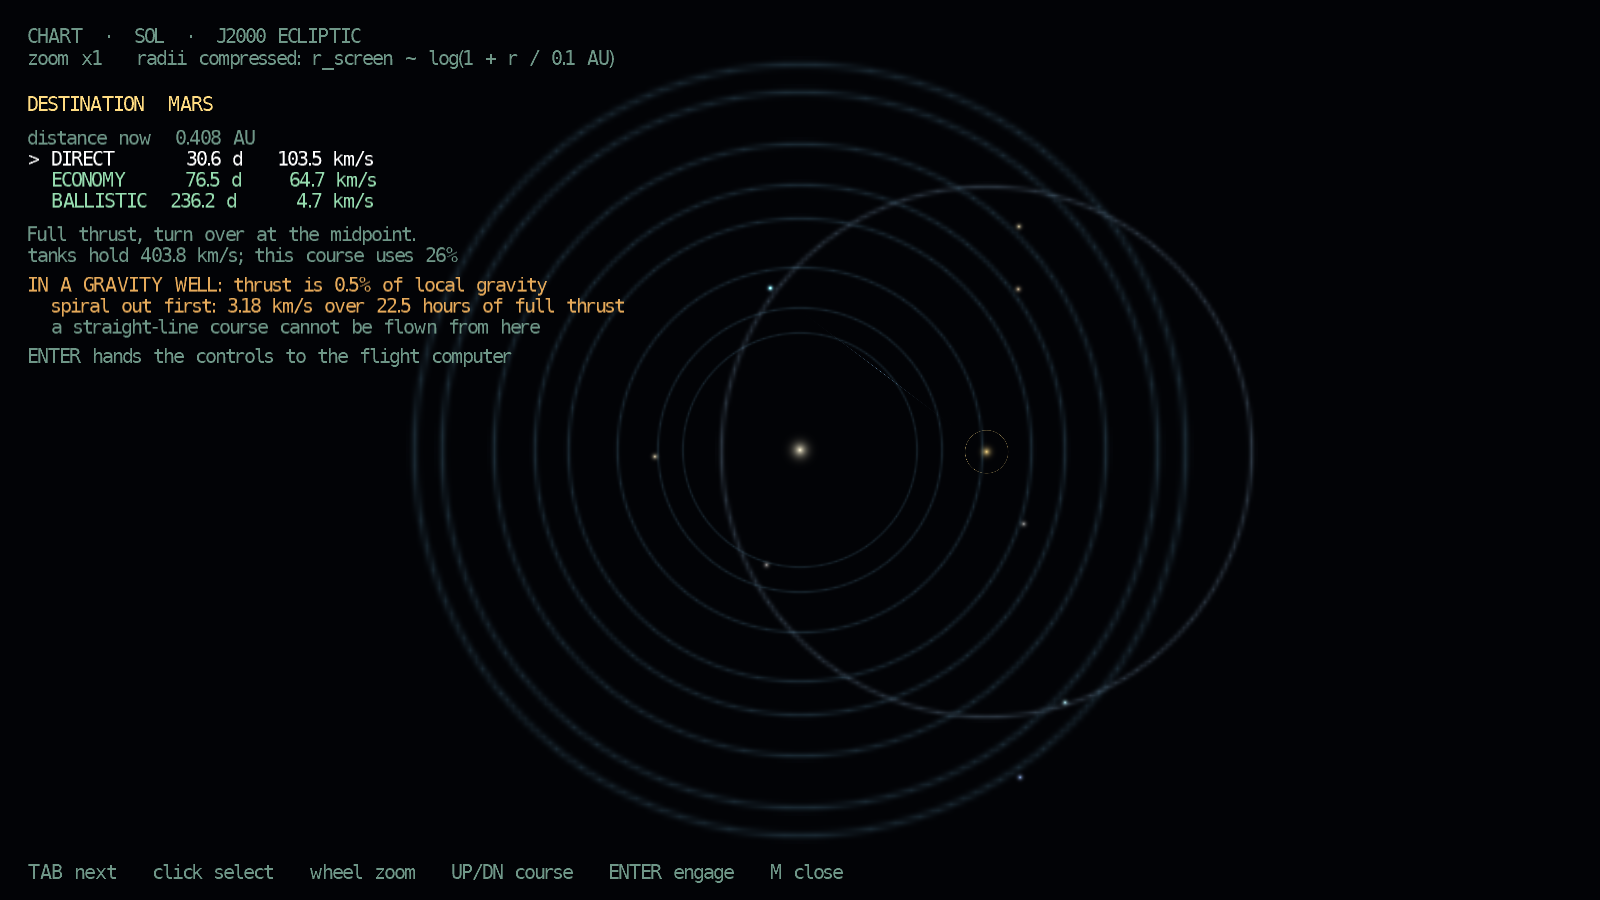
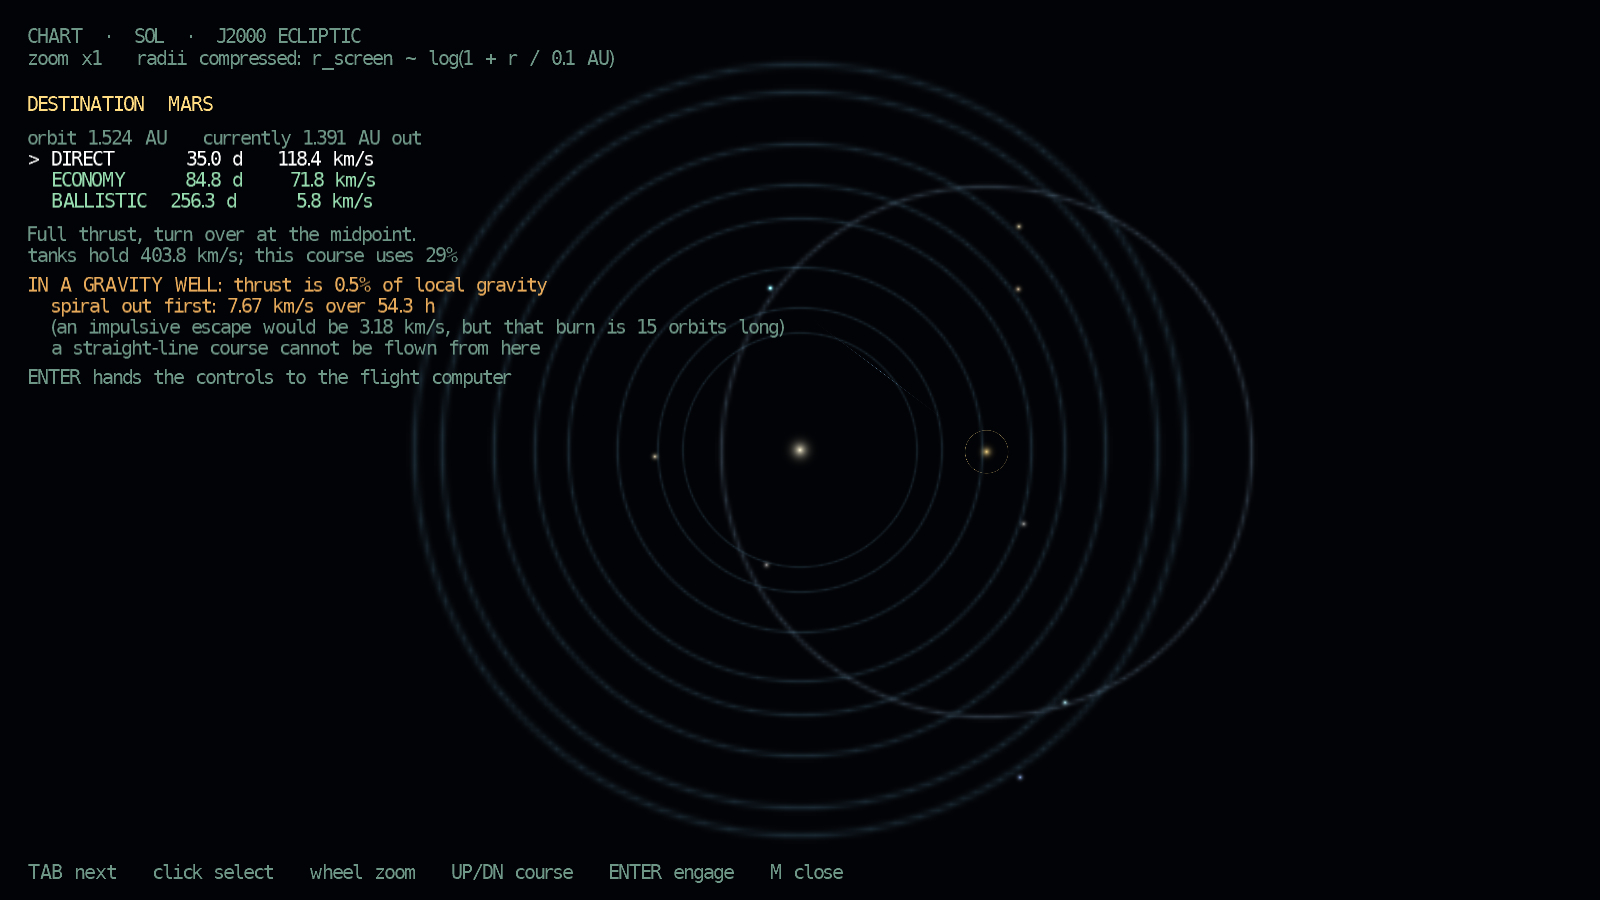
The escape costs two and a half times more than I said: the Oberth effect
"Can we have a limited time burn that gives the necessary escape speed?" No --
and working out why corrected a number I had wrong in the last commit.

There are two prices for the same escape and they differ by a factor of 2.41:

  IMPULSIVE, all at once   3.18 km/s = (sqrt2 - 1) * v_circ
  TANGENTIAL SPIRAL        7.67 km/s = v_circ

An instantaneous prograde burn adds v*dv of specific energy per metre a second,
and it does it at the highest speed the ship will ever have; solving
v^2 + 2*v_c* dv - v_c^2 = 0 gives 0.414 v_c. A spiral spends its metres a second
at every radius from here to infinity, where the speed is lower, and the energy
accounting gives exactly v_c.

THE CHEAP ONE CANNOT BE BOUGHT WITH A WEAK DRIVE, which is the answer to the
question. The impulsive burn takes 22.5 hours at four milligee -- FOURTEEN AND A
HALF ORBITS -- so there is no point in the orbit at which to deliver it. Thrust
along the velocity is the spiral, and the spiral pays the spiral price. The burn
duration against the orbital period is what decides it, not the destination:
a 0.4 g drive does the same escape in 0.15 orbits and pays 3.18.

So the previous commit's "spiral out first: 3.18 km/s over 22.5 hours" was wrong
twice: it quoted the impulsive delta-v and called it a spiral, and paired it with
a time that belongs to neither. The chart now shows both prices and says which
one applies.

A finite-thrust escape lies between the limits. This reports the limits rather
[…]

Changed region(s): [[0.0, 0.3111, 0.5, 0.4356], [0.0312, 0.1244, 0.25, 0.2489]]

diff --git a/src/SolSystem.Core/Orbits/FlightPlan.cs b/src/SolSystem.Core/Orbits/FlightPlan.cs
@@ -214,38 +214,74 @@ internal static class FlightPlan
     }
 
     /// <summary>
-    /// What it costs to climb out of a planet's gravity well before any course can begin.
+    /// What it costs to climb out of a gravity well, and how the cost depends on the drive.
+    /// </summary>
+    /// <param name="ImpulsiveDeltaV">The price if the burn could be instantaneous.</param>
+    /// <param name="SpiralDeltaV">The price for a slow tangential spiral.</param>
+    /// <param name="Orbits">How many orbits the impulsive burn would take at this thrust.</param>
+    /// <param name="SpiralSeconds">How long the spiral takes.</param>
+    internal readonly record struct EscapeCost(
+        double ImpulsiveDeltaV,
+        double SpiralDeltaV,
+        double Orbits,
+        double SpiralSeconds)
+    {
+        /// <summary>
+        /// Whether the drive is slow enough that the spiral price is the one it pays.
+        /// </summary>
+        /// <remarks>
+        /// A burn has to be short compared with an orbit to earn the impulsive price, and this asks
+        /// whether it is. One orbit is the line, and in practice a drive is well inside one regime or
+        /// the other — the interesting range is a factor of a hundred either side, not a factor of
+        /// two.
+        /// </remarks>
+        internal bool IsSpiral => Orbits > 1.0;
+    }
+
+    /// <summary>
+    /// What it costs to reach escape speed, which is NOT one number.
     /// </summary>
     /// <remarks>
     /// <para>
-    /// <b>A ship in orbit cannot point at Mars and leave.</b> At four milligee the drive's thrust is
-    /// <b>0.45 per cent</b> of the Earth's gravity at low orbit, so a vertical burn does not lift it —
-    /// it falls. What a low-thrust ship does instead is thrust along its direction of travel and
-    /// spiral outward, raising its orbit until it reaches escape speed, and that is a different
-    /// manoeuvre from anything in this planner.
+    /// <b>The same escape costs 3.18 km/s or 7.67 km/s depending on how fast the drive can deliver
+    /// it, and this is the Oberth effect.</b> An instantaneous prograde burn at low orbit adds
+    /// <c>v·dv</c> of specific energy per metre a second, and it does it at the highest speed the ship
+    /// will ever have. Solving <c>v² + 2·v_c·Δv − v_c² = 0</c> gives <c>Δv = (√2 − 1)·v_c = 3.18</c>.
+    /// A slow spiral spends its metres a second at every radius from here to infinity, where the
+    /// speed is lower, and the energy accounting gives exactly <c>Δv = v_c = 7.67</c>.
     /// </para>
     /// <para>
-    /// The cost of the spiral is <c>(sqrt(2) − 1)·v_circular</c>, which at the station's altitude is
-    /// <b>3.18 km/s</b> — a twentieth of the tanks — and it takes <b>22.5 hours</b> of continuous
-    /// full thrust, because a low-thrust burn is slow by definition.
+    /// <b>The ratio is 2.41 and there is no way to buy the cheap one with a weak drive.</b> The
+    /// impulsive burn would take 22.5 hours at four milligee — <b>fourteen and a half orbits</b> — so
+    /// there is no point in the orbit at which to deliver it. Thrusting prograde is the spiral, and
+    /// the spiral pays the spiral price.
     /// </para>
     /// <para>
-    /// This is returnable so that a chart can say so rather than offering a course the ship cannot
-    /// fly. The first version of the chart offered Mars at 63 days and the ship would have fallen
-    /// out of the sky.
+    /// A finite-thrust escape lies between the two limits. This reports both and says which regime
+    /// the drive is in, rather than interpolating: the honest middle needs a low-thrust trajectory
+    /// optimiser and this is not one.
     /// </para>
     /// </remarks>
-    internal static (double DeltaV, double Seconds) Escape(
-        double centralGmKm, double radiusKm, double acceleration)
+    internal static EscapeCost Escape(double centralGmKm, double radiusKm, double acceleration)
     {
         if (radiusKm <= 0.0 || acceleration <= 0.0)
         {
-            return (double.PositiveInfinity, double.PositiveInfinity);
+            return new EscapeCost(double.PositiveInfinity, double.PositiveInfinity, 0.0,
+                double.PositiveInfinity);
         }
 
-        double circular = Math.Sqrt(centralGmKm / radiusKm);            // km/s
-        double deltaV = (Math.Sqrt(2.0) - 1.0) * circular * 1000.0;     // m/s
-        return (deltaV, deltaV / acceleration);
+        double circular = Math.Sqrt(centralGmKm / radiusKm) * 1000.0;      // m/s
+        double period = 2.0 * Math.PI * Math.Sqrt(
+            (radiusKm * radiusKm * radiusKm) / centralGmKm);               // s
+
+        double impulsive = (Math.Sqrt(2.0) - 1.0) * circular;
+        double spiral = circular;
+
+        return new EscapeCost(
+            impulsive,
+            spiral,
+            impulsive / acceleration / period,
+            spiral / acceleration);
     }
 
     /// <summary>

diff --git a/tests/SolSystem.Core.Tests/FlightPlanTests.cs b/tests/SolSystem.Core.Tests/FlightPlanTests.cs
@@ -201,4 +201,66 @@ public class FlightPlanTests
         Assert.True(Find(toVenus, "BALLISTIC").DeltaV < Find(toMars, "BALLISTIC").DeltaV);
         Assert.True(Find(toVenus, "DIRECT").Seconds < Find(toMars, "DIRECT").Seconds);
     }
+
+    [Fact]
+    public void TheEscapePrice_DependsOnHowFastTheDriveCanPayIt()
+    {
+        // The Oberth effect, and the reason a low-thrust ship cannot buy the cheap escape.
+        //
+        // At the station the Earth's gravity is 8.68 m/s2 and the drive makes 0.0393, so the ship
+        // cannot climb out by pointing up. It has to thrust along its direction of travel and spiral,
+        // and the spiral costs a full circular velocity rather than the 41 per cent an instantaneous
+        // burn would.
+        const double EarthGmKm = 398_600.4418;
+        const double RadiusKm = 6_778.0;
+        const double Acceleration = 5.5 / 140.0;
+
+        FlightPlan.EscapeCost escape = FlightPlan.Escape(EarthGmKm, RadiusKm, Acceleration);
+
+        double circular = Math.Sqrt(EarthGmKm / RadiusKm);      // km/s
+
+        _o.WriteLine($"circular speed       {circular:F3} km/s");
+        _o.WriteLine($"impulsive escape     {escape.ImpulsiveDeltaV / 1000.0:F2} km/s "
+            + $"= {(Math.Sqrt(2.0) - 1.0):F4} x v_circ");
+        _o.WriteLine($"spiral escape        {escape.SpiralDeltaV / 1000.0:F2} km/s = 1.0000 x v_circ");
+        _o.WriteLine($"the impulsive burn is {escape.Orbits:F1} orbits long, "
+            + $"and the spiral takes {escape.SpiralSeconds / 3600.0:F1} h");
+
+        // The two limits, each a closed form.
+        Assert.Equal((Math.Sqrt(2.0) - 1.0) * circular * 1000.0, escape.ImpulsiveDeltaV, 0);
+        Assert.Equal(circular * 1000.0, escape.SpiralDeltaV, 0);
+
+        // A factor of 2.41 apart, which is the whole question.
+        Assert.Equal(2.414, escape.SpiralDeltaV / escape.ImpulsiveDeltaV, 2);
+
+        // And this drive is nowhere near impulsive: the cheap burn is fourteen orbits long, so there
+        // is no point in the orbit at which to deliver it.
+        Assert.True(escape.IsSpiral);
+        Assert.InRange(escape.Orbits, 14.0, 15.0);
+    }
+
+    [Fact]
+    public void AStrongEnoughDrive_WouldPayTheImpulsivePrice()
+    {
+        // The same escape with a drive a hundred times stronger: still under two orbits, so the
+        // impulsive price starts to be available. The line is one orbit, and it is the burn duration
+        // against the orbital period rather than anything about the destination.
+        const double EarthGmKm = 398_600.4418;
+        const double RadiusKm = 6_778.0;
+
+        FlightPlan.EscapeCost weak = FlightPlan.Escape(EarthGmKm, RadiusKm, 5.5 / 140.0);
+        FlightPlan.EscapeCost strong = FlightPlan.Escape(EarthGmKm, RadiusKm, 5.5 / 1.4);
+        FlightPlan.EscapeCost absurd = FlightPlan.Escape(EarthGmKm, RadiusKm, 5.5 / 0.14);
+
+        _o.WriteLine($"4 milligee  -> {weak.Orbits,8:F2} orbits, spiral {weak.IsSpiral}");
+        _o.WriteLine($"0.4 g       -> {strong.Orbits,8:F2} orbits, spiral {strong.IsSpiral}");
+        _o.WriteLine($"4 g         -> {absurd.Orbits,8:F2} orbits, spiral {absurd.IsSpiral}");
+
+        Assert.True(weak.IsSpiral);
+        Assert.False(absurd.IsSpiral);
+
+        // The prices themselves never change -- only which one is reachable.
+        Assert.Equal(weak.ImpulsiveDeltaV, absurd.ImpulsiveDeltaV, 6);
+        Assert.Equal(weak.SpiralDeltaV, absurd.SpiralDeltaV, 6);
+    }
 }

diff --git a/src/SolSystem.Client/FlightGame.cs b/src/SolSystem.Client/FlightGame.cs
@@ -941,18 +941,26 @@ internal sealed class FlightGame : Game
 
             if (ratio < 1.0)
             {
-                (double escapeV, double escapeSeconds) = FlightPlan.Escape(
+                FlightPlan.EscapeCost escape = FlightPlan.Escape(
                     stationGmKm, shipRadiusKm, acceleration);
 
                 _sprites.DrawString(_hud,
                     $"IN A GRAVITY WELL: thrust is {ratio * 100:F1}% of local gravity",
                     at, warn);
                 at.Y += Line;
+
+                // Both prices, because they differ by a factor of two and a half and which one
+                // applies is a property of the drive rather than of the destination.
                 _sprites.DrawString(_hud,
-                    $"  spiral out first: {escapeV / 1000.0:F2} km/s over "
-                    + $"{escapeSeconds / 3600.0:F1} hours of full thrust",
-                    at, warn);
+                    $"  spiral out first: {escape.SpiralDeltaV / 1000.0:F2} km/s over "
+                    + $"{escape.SpiralSeconds / 3600.0:F1} h", at, warn);
                 at.Y += Line;
+
+                _sprites.DrawString(_hud,
+                    $"  (an impulsive escape would be {escape.ImpulsiveDeltaV / 1000.0:F2} km/s, "
+                    + $"but that burn is {escape.Orbits:F0} orbits long)", at, dim);
+                at.Y += Line;
+
                 _sprites.DrawString(_hud,
                     "  a straight-line course cannot be flown from here", at, dim);
                 at.Y += Line * 1.4f;

diff --git a/docs/TRIP-ENERGY.md b/docs/TRIP-ENERGY.md
@@ -1313,10 +1313,22 @@ coming back, which is exactly what §4.1 says the war is about. Ceres at 204 km/
 and Ceres is supposed to be the cheap source of volatiles; the cheap way there is the ballistic
 column, at 472 days.
 
-**The escape problem comes first.** A ship at the station is 6 778 km from the centre of the Earth,
-where gravity is 8.68 m/s². The drive produces 0.0393 m/s². **The thrust is 0.45 % of the weight.**
-No amount of delta-v makes a vertical burn work; the ship has to thrust along its velocity and spiral
-outward, which costs `(√2 − 1)·v_circular` — 3.18 km/s — and takes 22.5 hours at full throttle.
+**The escape problem comes first, and it costs more than it looks.** A ship at the station is
+6 778 km from the centre of the Earth, where gravity is 8.68 m/s². The drive produces 0.0393 m/s².
+**The thrust is 0.45 % of the weight**, so no amount of delta-v makes a vertical burn work: the ship
+thrusts along its velocity and spirals outward.
 
-Those 22.5 hours are also the answer to "why is there a station at all": it is cheaper to build the
-ship in orbit than to lift it, and cheaper still to leave from somewhere that has already paid.
+How much that costs depends on how fast the drive can pay it, and this is the **Oberth effect**:
+
+| | Δv | burn time | orbits |
+|---|---|---|---|
+| Impulsive, `(√2−1)·v_circ` | 3.18 km/s | 22.5 h | **14.6** |
+| Tangential spiral, `v_circ` | **7.67 km/s** | 54.3 h | 35 |
+
+**The impulsive price is not available to a four-milligee drive.** That burn is fourteen orbits long,
+so there is no point in the orbit at which to deliver it — and the tangential burn, which is what a
+low-thrust ship can actually do, spends its metres a second at every radius out to infinity where the
+speed is lower.
+
+The 7.67 km/s figure is also the answer to "why is there a station at all": leaving is expensive
+enough that it is worth building the ship where it already is.

diff --git a/DESIGN.md b/DESIGN.md
@@ -911,13 +911,23 @@ transit time rather than being quoted from anywhere, and the test checks it.
 
 **A ship in low orbit cannot point at Mars and leave.** At four milligee the drive's thrust is
 **0.45 %** of the Earth's gravity at the station, so a vertical burn does not lift it; the ship
-falls. What a low-thrust ship does is thrust along its direction of travel and spiral out, which
-costs `(√2 − 1)·v_circular` — **3.18 km/s** from the station, a twentieth of the tanks — and takes
-**22.5 hours** of continuous full thrust.
+falls. What a low-thrust ship does is thrust along its direction of travel and spiral out.
 
-The chart says so, in those words, beside the courses. It is the first thing a new pilot should
-learn about the setting: leaving is not free, and the fast way out is not available from a
-standing start.
+**And the spiral costs two and a half times what an impulsive escape would, because of the Oberth
+effect.** An instantaneous prograde burn adds `v·dv` of specific energy per metre a second, and it
+does it at the highest speed the ship will ever have:
+
+| | Δv from the station | burn time at four milligee |
+|---|---|---|
+| Impulsive — `(√2−1)·v_circ` | **3.18 km/s** | 22.5 h — **14.6 orbits** |
+| Spiral — `v_circ` | **7.67 km/s** | 54.3 h |
+
+**The cheap one cannot be bought with a weak drive.** The impulsive burn would take fourteen and a
+half orbits, so there is no point in the orbit at which to deliver it; thrusting prograde is the
+spiral, and the spiral pays the spiral price. The chart quotes both, and says which applies.
+
+A finite-thrust escape lies between the two. This reports the limits rather than interpolating them,
+because an honest middle needs a low-thrust trajectory optimiser and this is not one.
 
 ### What is not built
 
